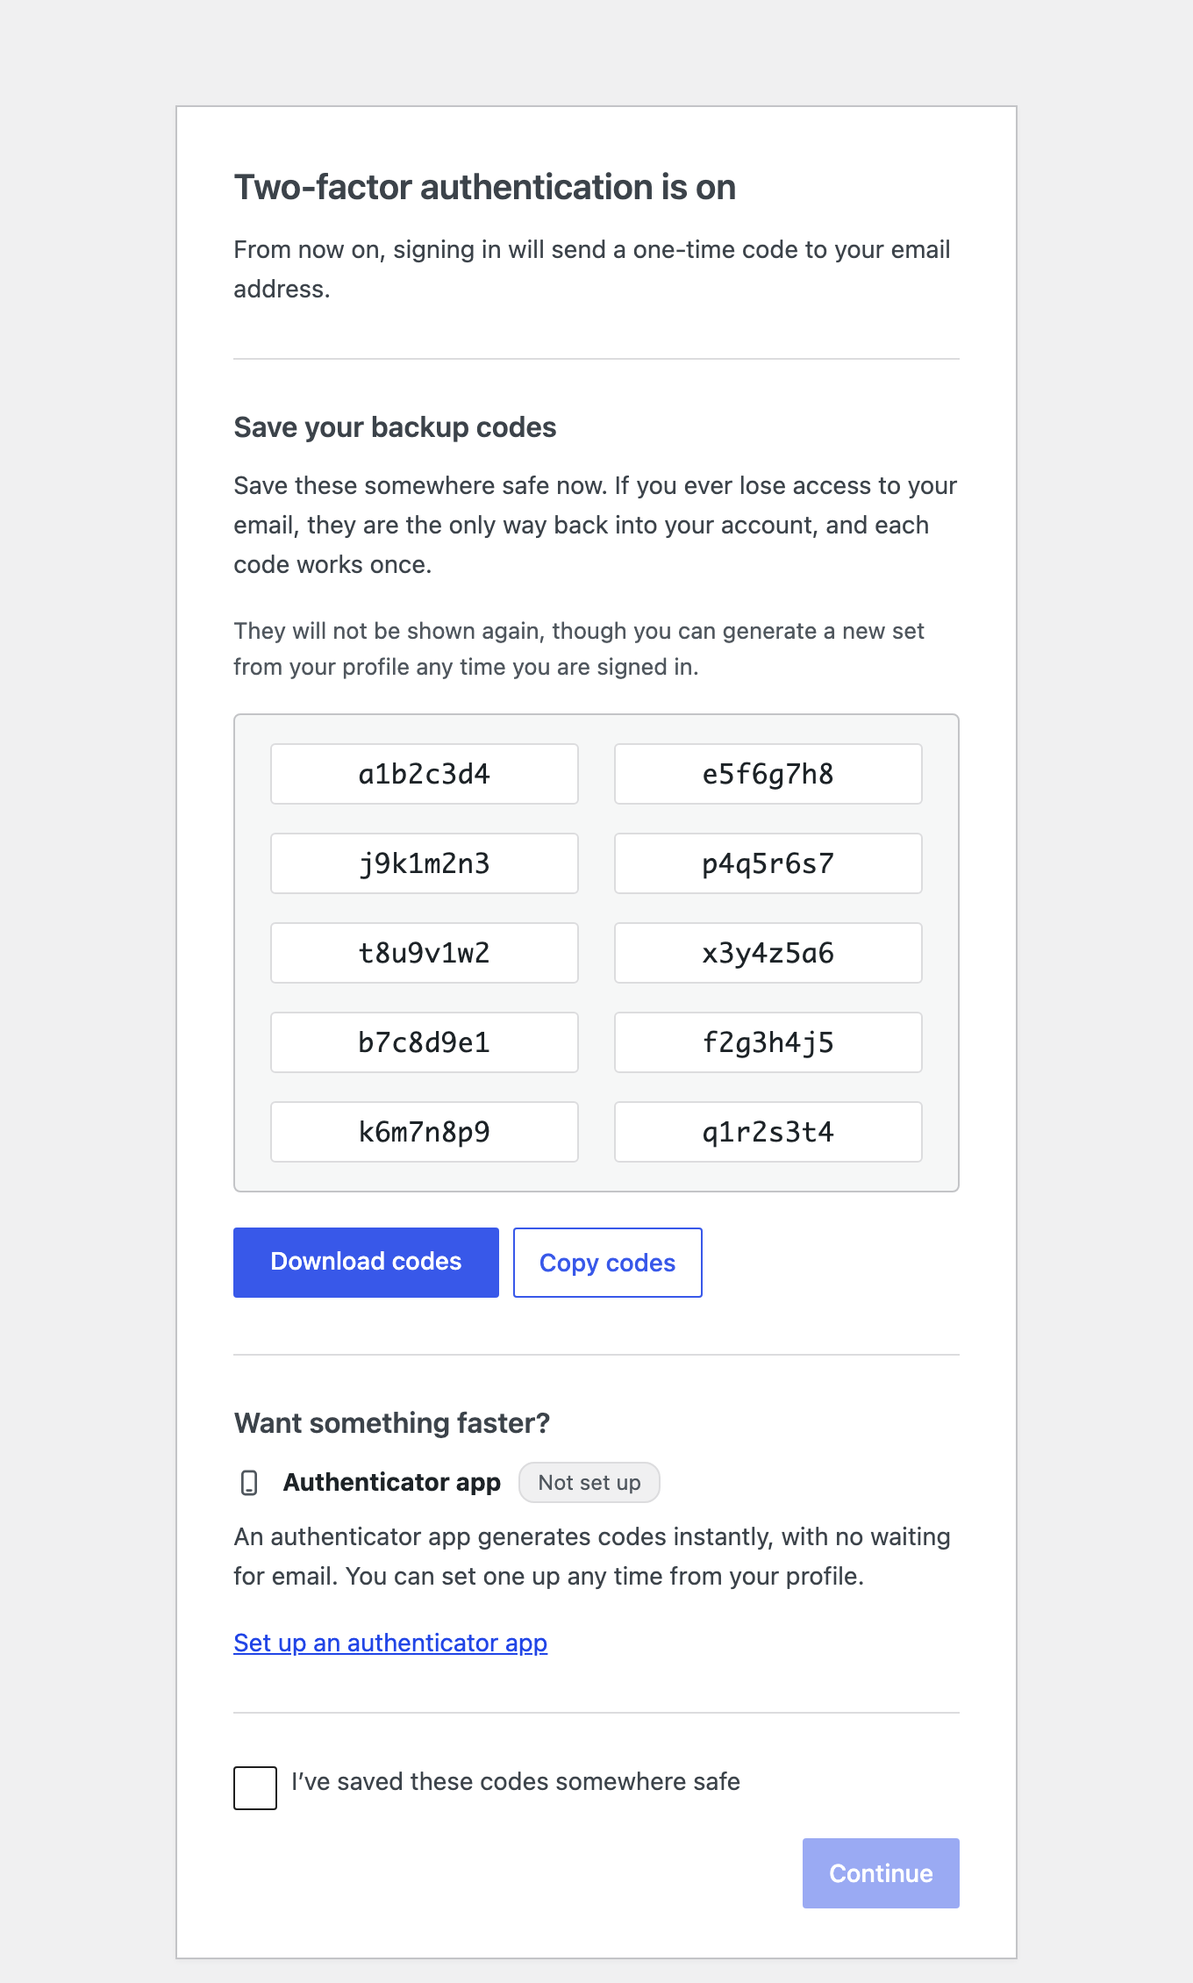
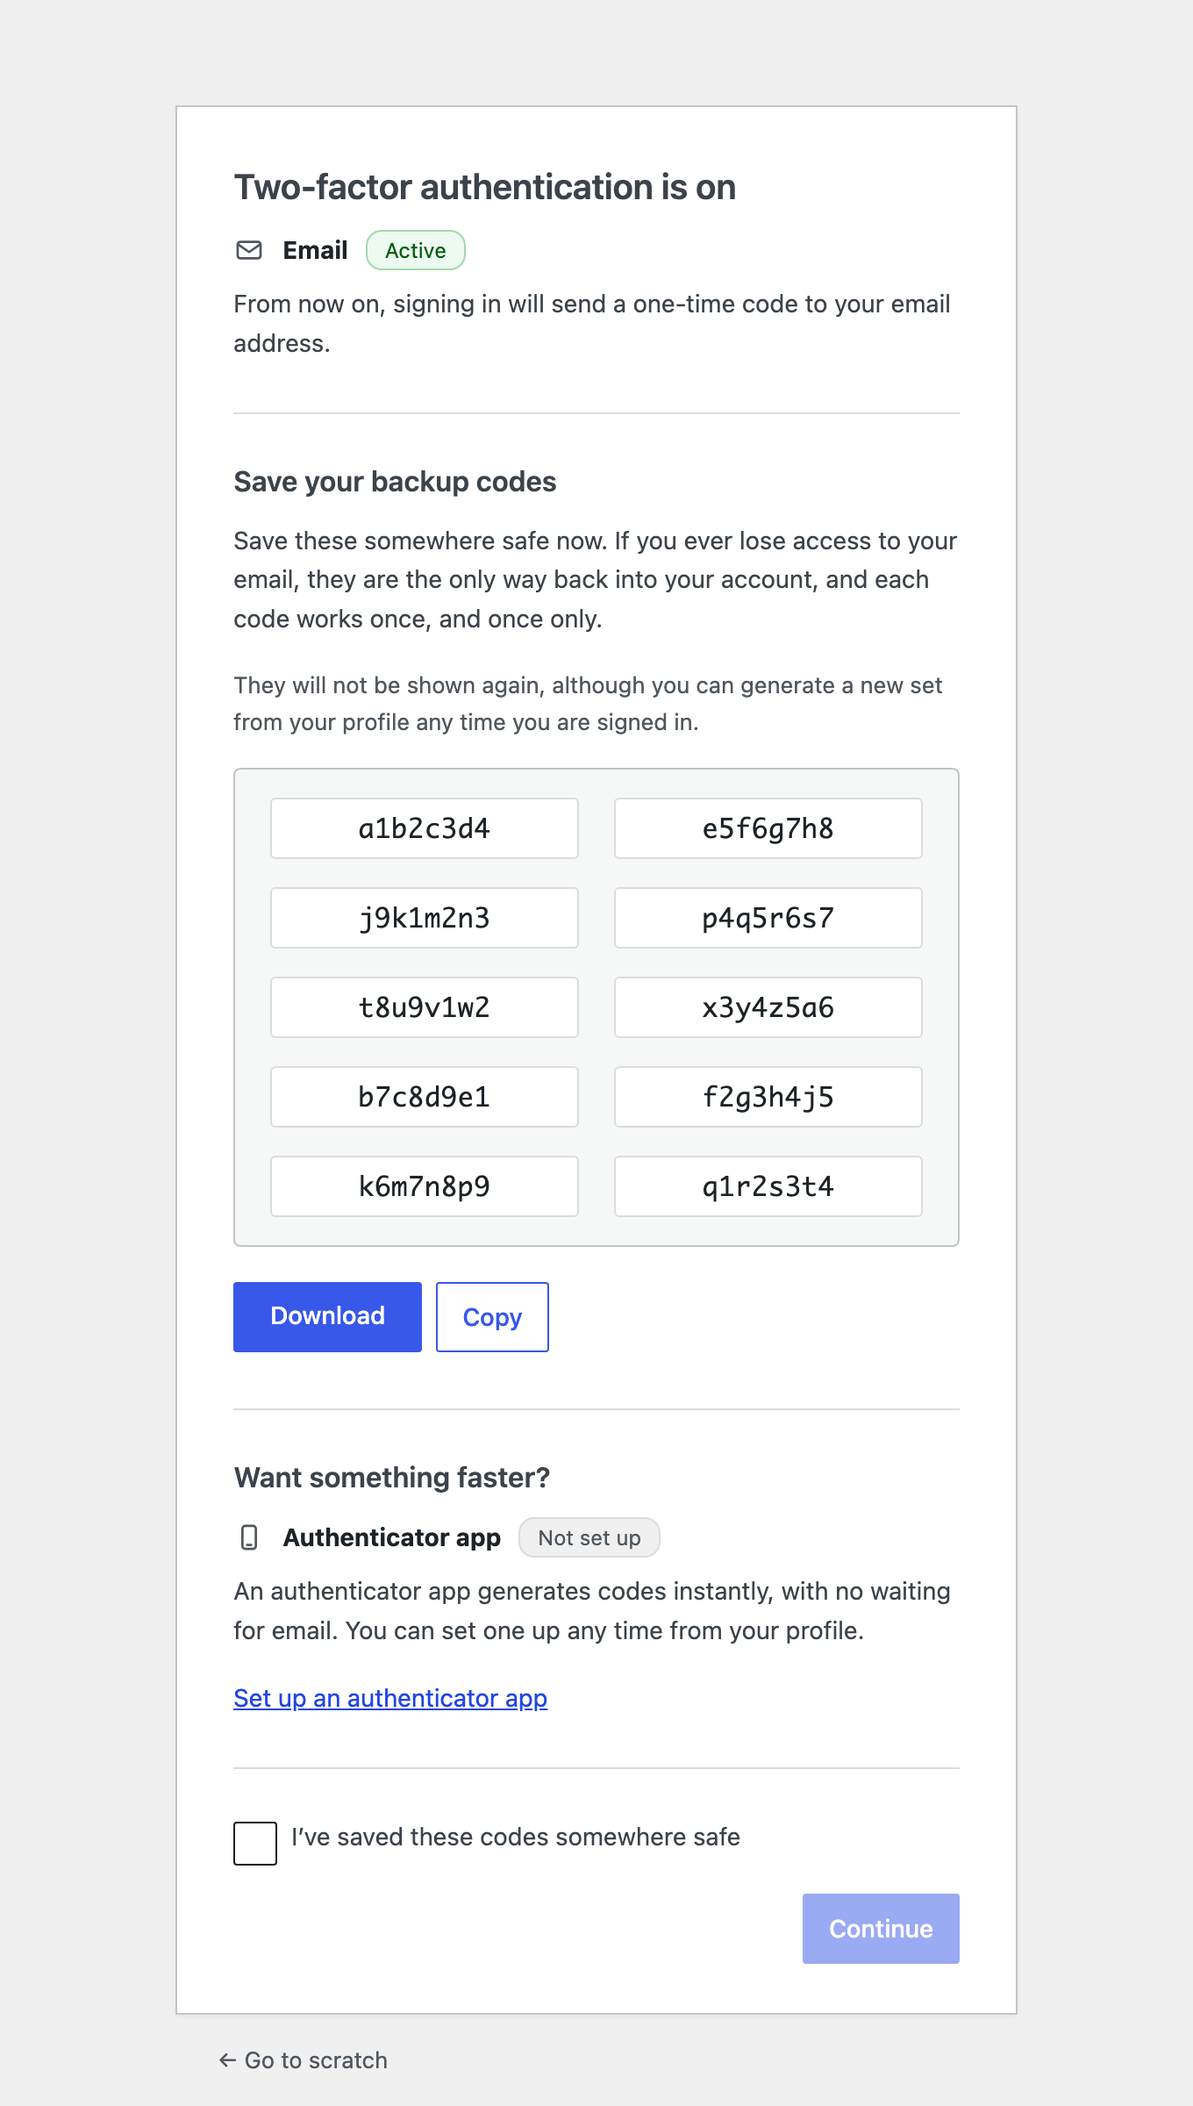
Show both factors as method rows, and shorten the button labels
Two changes to the onboarding screen, plus the copy edits and an
attribution correction.

The enrolled factor now carries the same row as the upgrade offer — icon,
name, state chip — so the screen says what the user has before what they
could add:

    ✉  Email              Active
    📱 Authenticator app  Not set up

That symmetry is what earns the icons their place. Both label a component
rather than decorating a heading, which is what an icon on the <h2> alone
would have been. Two rows with states is not the method list the design
rules out: nothing here is selectable, both statements are true, and the
required path that must never offer a choice is upstream of this screen —
the challenge has already been passed by the time it renders. The Email
row is unconditional, since Email is the only factor this plugin enrolls
anyone in and the user passed an emailed challenge moments earlier in the
same request chain.

"Download codes" and "Copy codes" become "Download" and "Copy". They sit
directly beneath the boxed list they act on, under a heading already
reading "Save your backup codes". No aria-label restoring the longer name:
the copy button swaps its visible text to "Copied!" and "Couldn't copy",
and a fixed accessible name of "Copy codes" would then not contain the
visible label — what WCAG 2.5.3 tests and what voice control users speak.

Copy: "each code works once, and once only", and "although" in the caveat.
[…]

diff --git a/includes/class-two-factor-enrollment-onboarding.php b/includes/class-two-factor-enrollment-onboarding.php
@@ -808,6 +808,16 @@ class Two_Factor_Enrollment_Onboarding {
 				white-space: nowrap;
 			}
 
+			/* The two chips carry different states and must not render
+			 * alike. The text is what distinguishes them -- "Active" against
+			 * "Not set up" -- and this colour is supplementary to that, never
+			 * the only signal. */
+			body.login-action-two_factor_enrollment_onboarding .two-factor-enrollment-badge-active {
+				background: #edfaef;
+				border-color: #a7d7ae;
+				color: #005c12;
+			}
+
 			body.login-action-two_factor_enrollment_onboarding .two-factor-enrollment-credential-block {
 				background: #f6f7f7;
 				border: 1px solid #c3c4c7;
@@ -1092,6 +1102,37 @@ class Two_Factor_Enrollment_Onboarding {
 			<section class="two-factor-enrollment-section">
 				<h2><?php esc_html_e( 'Two-factor authentication is on', 'two-factor-enrollment' ); ?></h2>
 
+				<?php
+				/*
+				 * The enrolled factor, in the same method-row shape as the
+				 * upgrade offer below: icon, name, state chip. That symmetry
+				 * is what earns the icons their place — both label a
+				 * component rather than decorating a heading — and it lets
+				 * the screen say what the user has before what they could
+				 * add.
+				 *
+				 * Unconditional, unlike the authenticator row. Email is the
+				 * only factor this plugin enrolls anyone in, and a user who
+				 * reached this screen passed an emailed challenge moments
+				 * ago in the same request chain, so there is no state in
+				 * which this row would be describing something untrue.
+				 *
+				 * Two rows with states is not the method list the design
+				 * rules out. Nothing here is selectable: this screen renders
+				 * after the challenge has already been passed, and the
+				 * required path that must never offer a choice is upstream
+				 * of it. See docs/ux-backlog.md, "Deliberately not taken".
+				 */
+				?>
+				<p class="two-factor-enrollment-method two-factor-enrollment-method-email">
+					<svg class="two-factor-enrollment-method-icon" width="18" height="18" viewBox="0 0 20 20" aria-hidden="true" focusable="false" xmlns="http://www.w3.org/2000/svg">
+						<rect x="2.75" y="4.75" width="14.5" height="10.5" rx="1.75" fill="none" stroke="currentColor" stroke-width="1.5"/>
+						<path d="M3.5 6.75 10 11.25l6.5-4.5" fill="none" stroke="currentColor" stroke-width="1.5" stroke-linecap="round" stroke-linejoin="round"/>
+					</svg>
+					<strong class="two-factor-enrollment-method-name"><?php esc_html_e( 'Email', 'two-factor-enrollment' ); ?></strong>
+					<span class="two-factor-enrollment-badge two-factor-enrollment-badge-active"><?php esc_html_e( 'Active', 'two-factor-enrollment' ); ?></span>
+				</p>
+
 				<p>
 					<?php esc_html_e( 'From now on, signing in will send a one-time code to your email address.', 'two-factor-enrollment' ); ?>
 				</p>
@@ -1121,7 +1162,7 @@ class Two_Factor_Enrollment_Onboarding {
 					 */
 					?>
 					<p>
-						<?php esc_html_e( 'Save these somewhere safe now. If you ever lose access to your email, they are the only way back into your account, and each code works once only.', 'two-factor-enrollment' ); ?>
+						<?php esc_html_e( 'Save these somewhere safe now. If you ever lose access to your email, they are the only way back into your account, and each code works once, and once only.', 'two-factor-enrollment' ); ?>
 					</p>
 
 					<p class="two-factor-enrollment-caveat">
@@ -1137,8 +1178,26 @@ class Two_Factor_Enrollment_Onboarding {
 					</div>
 
 					<p class="two-factor-enrollment-actions">
+						<?php
+						/*
+						 * "Download" and "Copy", not "Download codes" and
+						 * "Copy codes". These sit directly beneath the boxed
+						 * list they act on, under a heading that already
+						 * reads "Save your backup codes"; restating the
+						 * object put the word three times in a few inches.
+						 *
+						 * No aria-label restoring the longer name, either.
+						 * The copy button swaps its visible text to
+						 * "Copied!" and "Couldn't copy", and a fixed
+						 * accessible name of "Copy codes" would then not
+						 * contain the visible label — which is what WCAG
+						 * 2.5.3 (Label in Name) tests and what voice control
+						 * users speak. A transient mismatch would be worse
+						 * than the shorter name.
+						 */
+						?>
 						<a class="button button-primary two-factor-enrollment-download" href="<?php echo esc_url( self::codes_download_link( $codes ), array( 'data' ) ); ?>" download="two-factor-backup-codes.txt">
-							<?php esc_html_e( 'Download codes', 'two-factor-enrollment' ); ?>
+							<?php esc_html_e( 'Download', 'two-factor-enrollment' ); ?>
 						</a>
 						<?php
 						/*
@@ -1172,14 +1231,14 @@ class Two_Factor_Enrollment_Onboarding {
 						}
 						?>
 						<button type="button" class="button two-factor-enrollment-copy" hidden
-							data-default-label="<?php echo esc_attr__( 'Copy codes', 'two-factor-enrollment' ); ?>"
+							data-default-label="<?php echo esc_attr__( 'Copy', 'two-factor-enrollment' ); ?>"
 							data-copied-label="<?php echo esc_attr__( 'Copied!', 'two-factor-enrollment' ); ?>"
 							data-copied-status="<?php echo esc_attr__( 'Codes copied to the clipboard.', 'two-factor-enrollment' ); ?>"
 							data-failed-label="<?php echo esc_attr__( "Couldn't copy", 'two-factor-enrollment' ); ?>"
 							data-failed-status="<?php echo esc_attr__( "Couldn't copy the codes automatically. Use the download button instead.", 'two-factor-enrollment' ); ?>"
 							data-codes-payload="<?php echo esc_attr( $codes_payload_json ); ?>"
 						>
-							<?php esc_html_e( 'Copy codes', 'two-factor-enrollment' ); ?>
+							<?php esc_html_e( 'Copy', 'two-factor-enrollment' ); ?>
 						</button>
 						<span class="two-factor-enrollment-copy-status screen-reader-text" role="status"></span>
 					</p>
@@ -1200,7 +1259,7 @@ class Two_Factor_Enrollment_Onboarding {
 				 * never enrolls through this plugin and never arrives here.
 				 */
 				?>
-				<p class="two-factor-enrollment-method">
+				<p class="two-factor-enrollment-method two-factor-enrollment-method-totp">
 					<?php
 					/*
 					 * Inline SVG rather than dashicons: the login screen

diff --git a/tests/test-enrollment-onboarding.php b/tests/test-enrollment-onboarding.php
@@ -634,7 +634,7 @@ class Tests_Two_Factor_Enrollment_Onboarding extends WP_UnitTestCase {
 		$html = Two_Factor_Enrollment_Onboarding::render_body( array( 'aaaa1111', 'bbbb2222' ), admin_url() );
 
 		$this->assertStringContainsString( '<button type="button" class="button two-factor-enrollment-copy" hidden', $html );
-		$this->assertStringContainsString( 'data-default-label="Copy codes"', $html );
+		$this->assertStringContainsString( 'data-default-label="Copy"', $html );
 		$this->assertStringContainsString( 'data-copied-label="Copied!"', $html );
 		$this->assertStringNotContainsString( 'aria-live', $html );
 	}
@@ -1597,7 +1597,7 @@ class Tests_Two_Factor_Enrollment_Onboarding extends WP_UnitTestCase {
 		$html = Two_Factor_Enrollment_Onboarding::render_body( array(), admin_url() );
 
 		$this->assertStringContainsString( 'Want something faster?', $html );
-		$this->assertStringContainsString( 'two-factor-enrollment-method', $html );
+		$this->assertStringContainsString( 'two-factor-enrollment-method-totp', $html );
 	}
 
 	/**
@@ -1621,7 +1621,12 @@ class Tests_Two_Factor_Enrollment_Onboarding extends WP_UnitTestCase {
 		$this->assertStringNotContainsString( 'Want something faster?', $html );
 		$this->assertStringNotContainsString( 'Authenticator app', $html );
 		$this->assertStringNotContainsString( 'Not set up', $html );
-		$this->assertStringNotContainsString( 'two-factor-enrollment-method', $html );
+		$this->assertStringNotContainsString( 'two-factor-enrollment-method-totp', $html );
+
+		// The Email row is a different method row and must survive: it
+		// describes the factor the user just enrolled in, which has nothing
+		// to do with whether TOTP is on offer.
+		$this->assertStringContainsString( 'two-factor-enrollment-method-email', $html );
 	}
 
 	/**
@@ -1646,6 +1651,94 @@ class Tests_Two_Factor_Enrollment_Onboarding extends WP_UnitTestCase {
 		$this->assertStringContainsString( 'Save your backup codes', $html );
 		$this->assertStringContainsString( 'two-factor-enrollment-continue-button', $html );
 		$this->assertStringContainsString( 'two-factor-enrollment-acknowledge-input', $html );
+	}
+
+	/*
+	 * ---------------------------------------------------------------------
+	 * Button labels, and the enrolled method row.
+	 * ---------------------------------------------------------------------
+	 */
+
+	/**
+	 * "Download codes" and "Copy codes" sat directly beneath a boxed list of
+	 * codes, under a heading that already said "Save your backup codes" —
+	 * three repetitions of the word in a few inches. The buttons are
+	 * adjacent to their object in both reading order and the DOM, so the
+	 * object does not need restating.
+	 *
+	 * Deliberately no aria-label restoring the longer name. The copy button
+	 * swaps its visible text to "Copied!" and "Couldn't copy", and a fixed
+	 * accessible name of "Copy codes" would then fail to contain the visible
+	 * label — the thing WCAG 2.5.3 (Label in Name) actually tests, and what
+	 * voice-control users speak. A transient mismatch is worse than the
+	 * shorter name.
+	 */
+	public function test_render_body_button_labels_do_not_restate_their_object() {
+		$html = Two_Factor_Enrollment_Onboarding::render_body( array( 'aaaa1111' ), admin_url() );
+
+		$this->assertStringNotContainsString( 'Download codes', $html );
+		$this->assertStringNotContainsString( 'Copy codes', $html );
+		$this->assertStringContainsString( 'data-default-label="Copy"', $html );
+
+		// No aria-label anywhere on the actions, per the docblock above.
+		$this->assertStringNotContainsString( 'aria-label', $html );
+	}
+
+	/**
+	 * The screen states what the user now has, not only what they could add.
+	 * The enrolled factor gets the same method-row treatment as the upgrade
+	 * offer — icon, name, state chip — which is what earns the icons their
+	 * place: both do the same job. An icon on the heading alone would be
+	 * decoration.
+	 */
+	public function test_render_body_shows_the_enrolled_email_method_as_active() {
+		$html = Two_Factor_Enrollment_Onboarding::render_body( array(), admin_url() );
+
+		$this->assertStringContainsString( 'two-factor-enrollment-method-email', $html );
+		$this->assertStringContainsString( '>Email<', $html );
+		$this->assertStringContainsString( 'Active', $html );
+	}
+
+	/**
+	 * Order matters: what you have, then what you could add. The Email row
+	 * belongs in the opening confirmation section, above the codes, and the
+	 * authenticator offer stays at the bottom.
+	 */
+	public function test_render_body_orders_the_method_rows_have_then_could_add() {
+		$html = Two_Factor_Enrollment_Onboarding::render_body( array( 'aaaa1111' ), admin_url() );
+
+		$email = strpos( $html, 'two-factor-enrollment-method-email' );
+		$codes = strpos( $html, 'two-factor-enrollment-codes' );
+		$totp  = strpos( $html, 'two-factor-enrollment-method-totp' );
+
+		$this->assertNotFalse( $email, 'The Email method row was not found.' );
+		$this->assertNotFalse( $totp, 'The authenticator method row was not found.' );
+
+		$this->assertLessThan( $codes, $email, 'The enrolled factor belongs above the codes it just produced.' );
+		$this->assertLessThan( $totp, $codes, 'The optional upgrade belongs last.' );
+	}
+
+	/**
+	 * Two chips, two states, and they must not look alike. "Active" and
+	 * "Not set up" are distinguished by their text first — colour is only
+	 * ever supplementary — but a state chip that renders identically for
+	 * both states is not doing the job the chip exists for.
+	 */
+	public function test_login_enqueue_scripts_styles_the_active_badge_distinctly() {
+		wp_register_style( 'login', false, array(), '1.0' );
+		wp_enqueue_style( 'login' );
+
+		$_REQUEST['action'] = Two_Factor_Enrollment_Onboarding::ACTION;
+
+		Two_Factor_Enrollment_Onboarding::login_enqueue_scripts();
+
+		$style = implode( "\n", (array) wp_styles()->get_data( 'login', 'after' ) );
+
+		$this->assertMatchesRegularExpression(
+			'/login-action-two_factor_enrollment_onboarding \.two-factor-enrollment-badge-active\s*\{/',
+			$style,
+			'The active state needs its own rule, or both chips render identically.'
+		);
 	}
 
 	/**

diff --git a/docs/ux-backlog.md b/docs/ux-backlog.md
@@ -1,9 +1,14 @@
 # Onboarding screen — UX backlog
 
-Patterns worth borrowing from the LearnDash two-factor onboarding screen cited as
-the design reference in
+Patterns worth borrowing from the two-factor onboarding screen cited as the
+design reference in
 [WordPress/two-factor#813](https://github.com/WordPress/two-factor/issues/813),
 adapted to a screen that solves a different problem.
+
+That screen is **Solid Security's**, not LearnDash's. The screenshot in #813 was
+taken on learndash.com, which runs the plugin;
+[Timothy Jacobs, who built it, said so in the thread](https://github.com/WordPress/two-factor/issues/813).
+This file called it the LearnDash screen throughout until that was noticed.
 
 Their screen is **pre-enrollment**: it asks the user to pick a method. Ours is
 **post-enrollment**: the user has already passed a real challenge, and the screen
@@ -116,30 +121,62 @@ reassurance on the screen.
 
 ---
 
-## Still open
+## 6. Both factors as method rows — shipped
 
-**The upgrade offer does not check whether TOTP is available site-wide.** Found
-while doing item 2, pre-existing, not fixed. If `Two_Factor_Totp` is removed via
-the `two_factor_providers` filter, the "Want something faster?" section still
-renders and still links to the profile screen, where the user will find nothing
-to set up. The status chip makes this slightly more pointed than it was — the
-offer now asserts a state for a method that is not on offer at all.
+The screen states what the user now has, not only what they could add. The
+enrolled factor carries the same row as the upgrade offer — icon, name, state
+chip:
 
-`Two_Factor_Enrollment_Onboarding::maybe_generate_backup_codes()` already does
-exactly this check for Backup Codes and returns early when the provider is
-disabled site-wide; the same shape applies here. Left out of the item 2 commit
-because it is a behavior change rather than a presentation one, and worth its own
-review.
+> ✉ **Email** · Active
+> 📱 **Authenticator app** · Not set up
+
+That symmetry is what earns the icons their place: both label a component rather
+than decorating a heading. An icon on the `<h2>` alone would have been the
+latter.
+
+Two rows with states is **not** the method list ruled out below. Nothing here is
+selectable, both statements are simply true, and the required path that must
+never offer a choice is upstream of this screen — the challenge has already been
+passed by the time it renders.
+
+The Email row is unconditional; the authenticator row is not (see "Still open",
+now closed, and the site-wide availability check in `totp_available()`).
+
+---
+
+## 7. Button labels — shipped
+
+"Download codes" and "Copy codes" became "Download" and "Copy". They sit directly
+beneath the boxed list they act on, under a heading already reading "Save your
+backup codes" — three repetitions of the word in a few inches.
+
+No `aria-label` restoring the longer name. The copy button swaps its visible text
+to "Copied!" and "Couldn't copy", and a fixed accessible name of "Copy codes"
+would then not contain the visible label, which is what WCAG 2.5.3 (Label in
+Name) tests and what voice-control users speak. A transient mismatch is worse
+than the shorter name.
+
+---
+
+## Closed since
+
+**The upgrade offer now checks whether TOTP is available site-wide.** Found while
+doing item 2. If `Two_Factor_Totp` is removed via the `two_factor_providers`
+filter, the "Want something faster?" section used to render anyway and link to a
+profile screen with nothing on it — worse once the chip landed, since the screen
+then asserted a state for a method that was not on offer.
+`totp_available()` now mirrors the check `maybe_generate_backup_codes()` already
+made for Backup Codes.
 
 ---
 
 ## Deliberately not taken
 
-**The method chooser.** LearnDash presents Mobile App / Email / Backup Codes as a
-menu. Adopting that on a forced-enrollment screen would undo this plugin's central
-security property: an attacker holding only the password could pick TOTP, enroll
-their own authenticator, and never need the victim's mailbox. The required path
-offers exactly one factor for exactly that reason. Every option added to a
+**The method chooser.** Solid Security presents Mobile App / Email / Backup Codes
+as a menu. Adopting that on a forced-enrollment screen would undo this plugin's
+central security property: an attacker holding only the password could pick TOTP,
+enroll their own authenticator, and never need the victim's mailbox. The required
+path offers exactly one factor for exactly that reason. Every option added to a
 forced-enrollment chooser is a route around the mailbox requirement.
 
 **A visible "Skip".** Deferral here is a policy decision made in the gate before
@@ -154,7 +191,10 @@ the equivalent list would be misleading.
 
 ## Upstream
 
-The chooser argument is worth making on #813 itself, where this screenshot is
-cited as the design target. "Adopt the affordances, not the chooser, and here is
-the attack that motivates it" is a substantive contribution to that thread, and
-one nobody there has made yet.
+The chooser argument **has been made** on #813 — "adopt the affordances, not the
+chooser, and here is the attack that motivates it" — alongside the earlier
+comment on the enrollment race and email-first enrollment. What remains open in
+that thread is Timothy Jacobs's suggestion of a login-interstitial framework for
+enforcing requirements at login: worth answering with the finding that
+email-first enrollment needs no interstitial, because it completes inside core's
+existing challenge before any auth cookie is issued.
